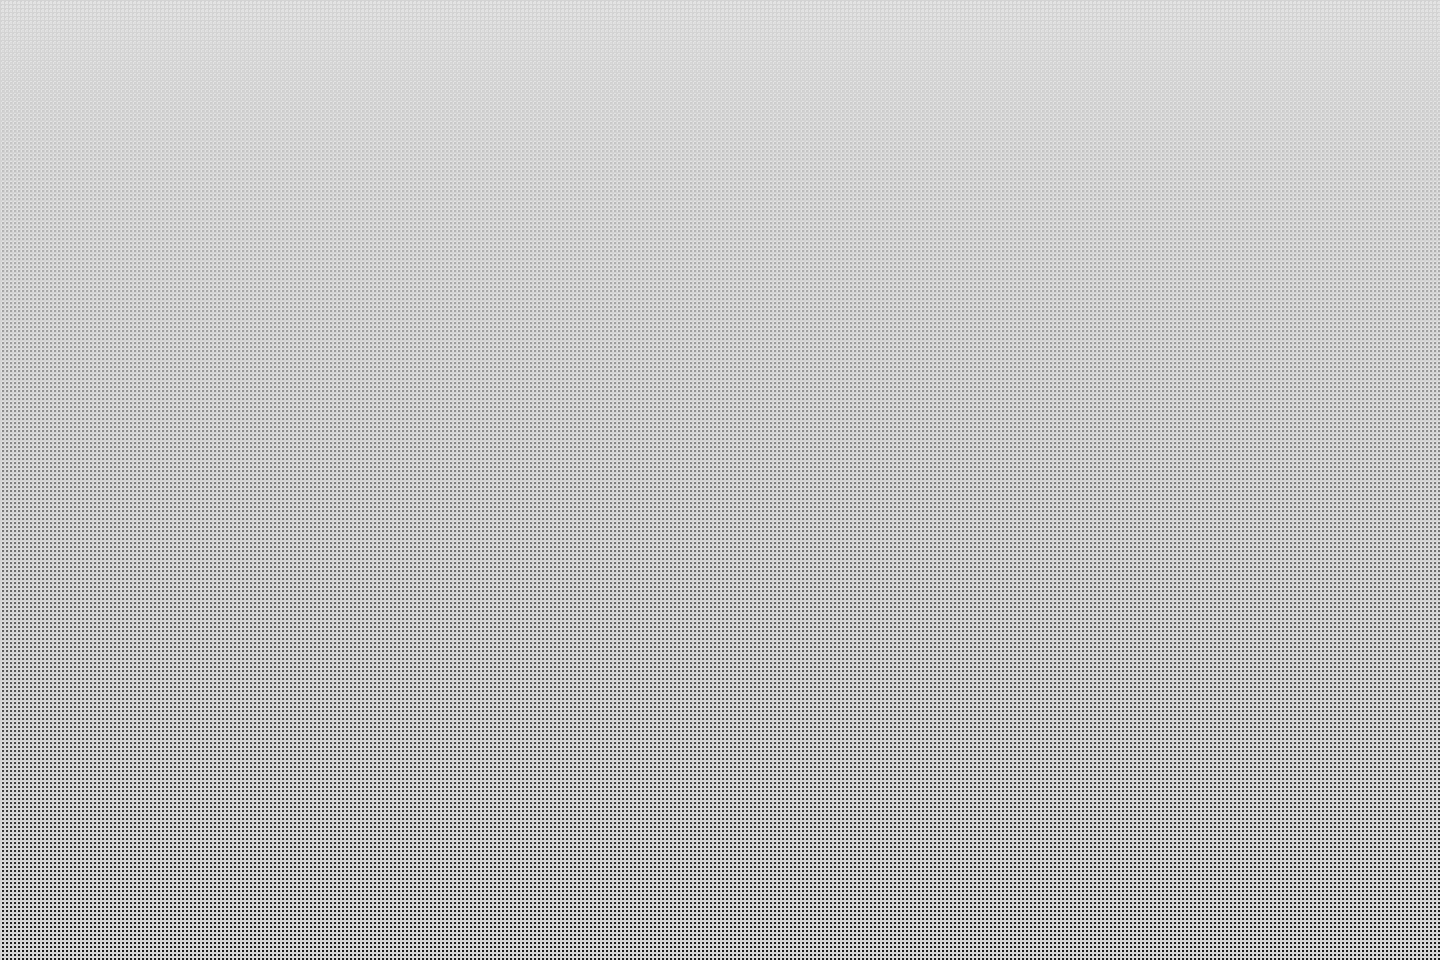
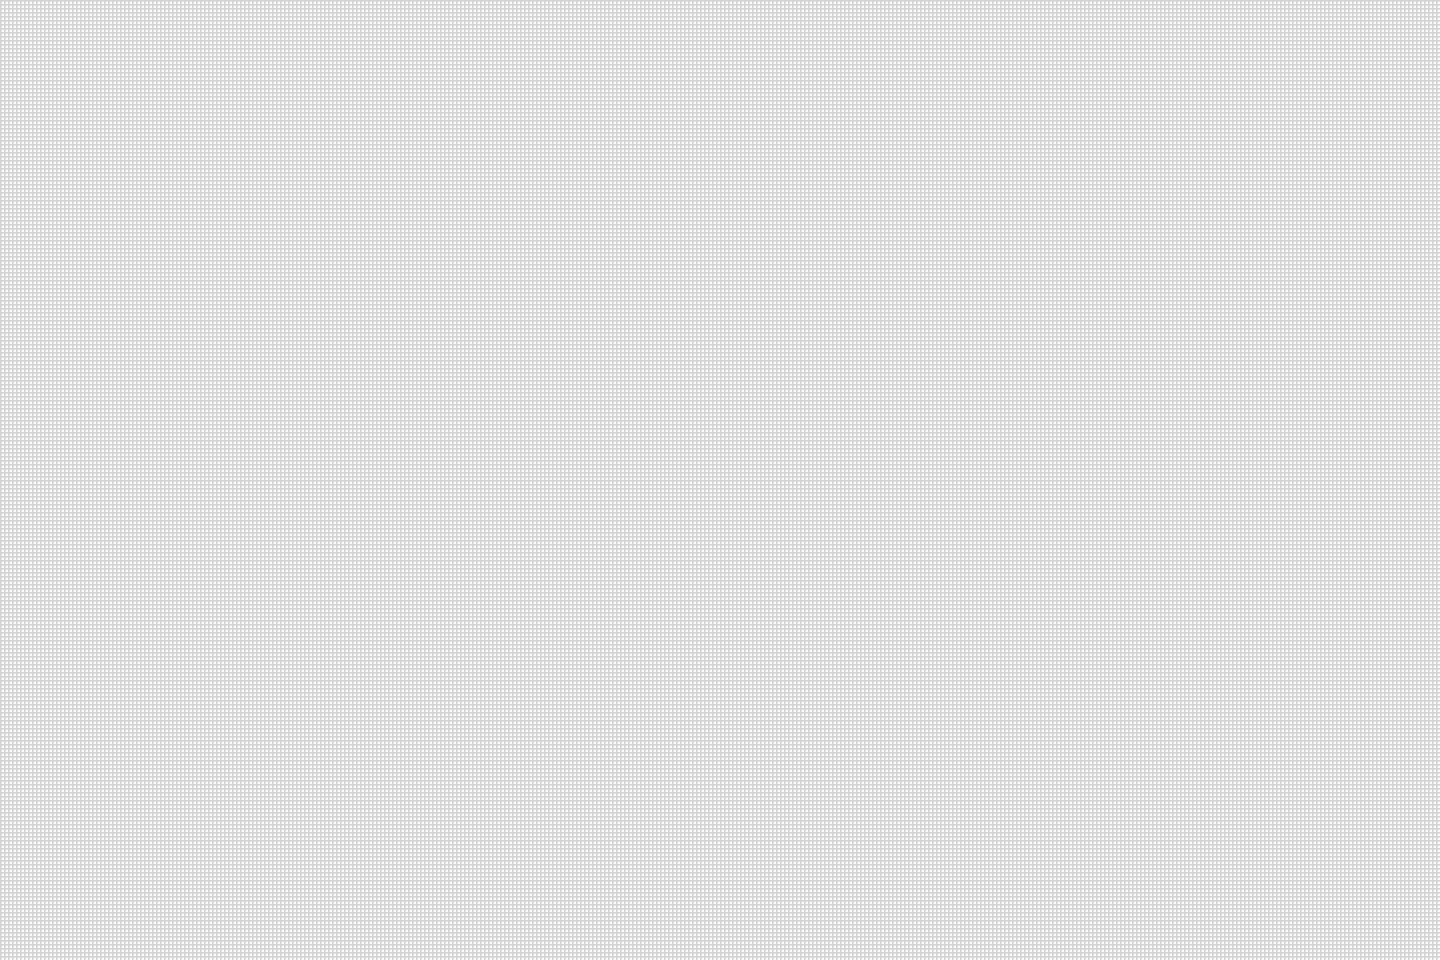
css background cover

Changed region(s): [[0.0, 0.0, 1.0, 1.0]]

diff --git a/blocks/background/background.css b/blocks/background/background.css
@@ -1,8 +1,11 @@
 .background {
-    /*background-image:url('/images/background.jpg') ;
+    width: 1440px;
     height: 960px;
-    margin:0;
-    position: fixed;
-    top: 0;
-    left: 0; 
+    position: absolute;
+    inset: 0 auto; 
+    background-image: linear-gradient(rgba(231,231,231,0), rgba(26,26,26, 1)), url('/images/background.jpg') ;
+    background-size: 1440px 960px;
+    background-repeat: no-repeat;
+    z-index: -2;
+    
 }

diff --git a/blocks/page/page.css b/blocks/page/page.css
@@ -6,8 +6,4 @@
     -webkit-font-smoothing: antialiased;
     -moz-osx-font-smoothing: grayscale;
     margin: 0;
-    background-image:url('/images/background.jpg');
-    background-color:linear-gradient(#E7E7E7, #1A1A1A);
-    background-size: 1440px 960px;
-    background-repeat: no-repeat;
 }  

diff --git a/style.css b/style.css
@@ -2,4 +2,5 @@
 @import url('/blocks/page/page.css');
 @import url('/blocks/page/__content/page__content.css');
 @import url('/blocks/background/background.css');
+@import url('/blocks/background/__cover/background__cover.css');
 @import url('/blocks/header/header.css');

diff --git a/index.html b/index.html
@@ -11,7 +11,7 @@
 </head>
 <body class="page">
     <main class="page__content">
-
+        
         <div class="background"></div>
 
         <header class="header">

diff --git a/blocks/page/__content/page__content.css b/blocks/page/__content/page__content.css
@@ -1,5 +1,4 @@
 .page__content {
     max-width: 1440px;
     margin: 0 auto 0 auto;
-    position: relative;
 }

diff --git a/blocks/header/header.css b/blocks/header/header.css
@@ -3,4 +3,5 @@
     background: #FFFFFF;
     width: 700px;
     height: 368px;
+    z-index:0;
 }
